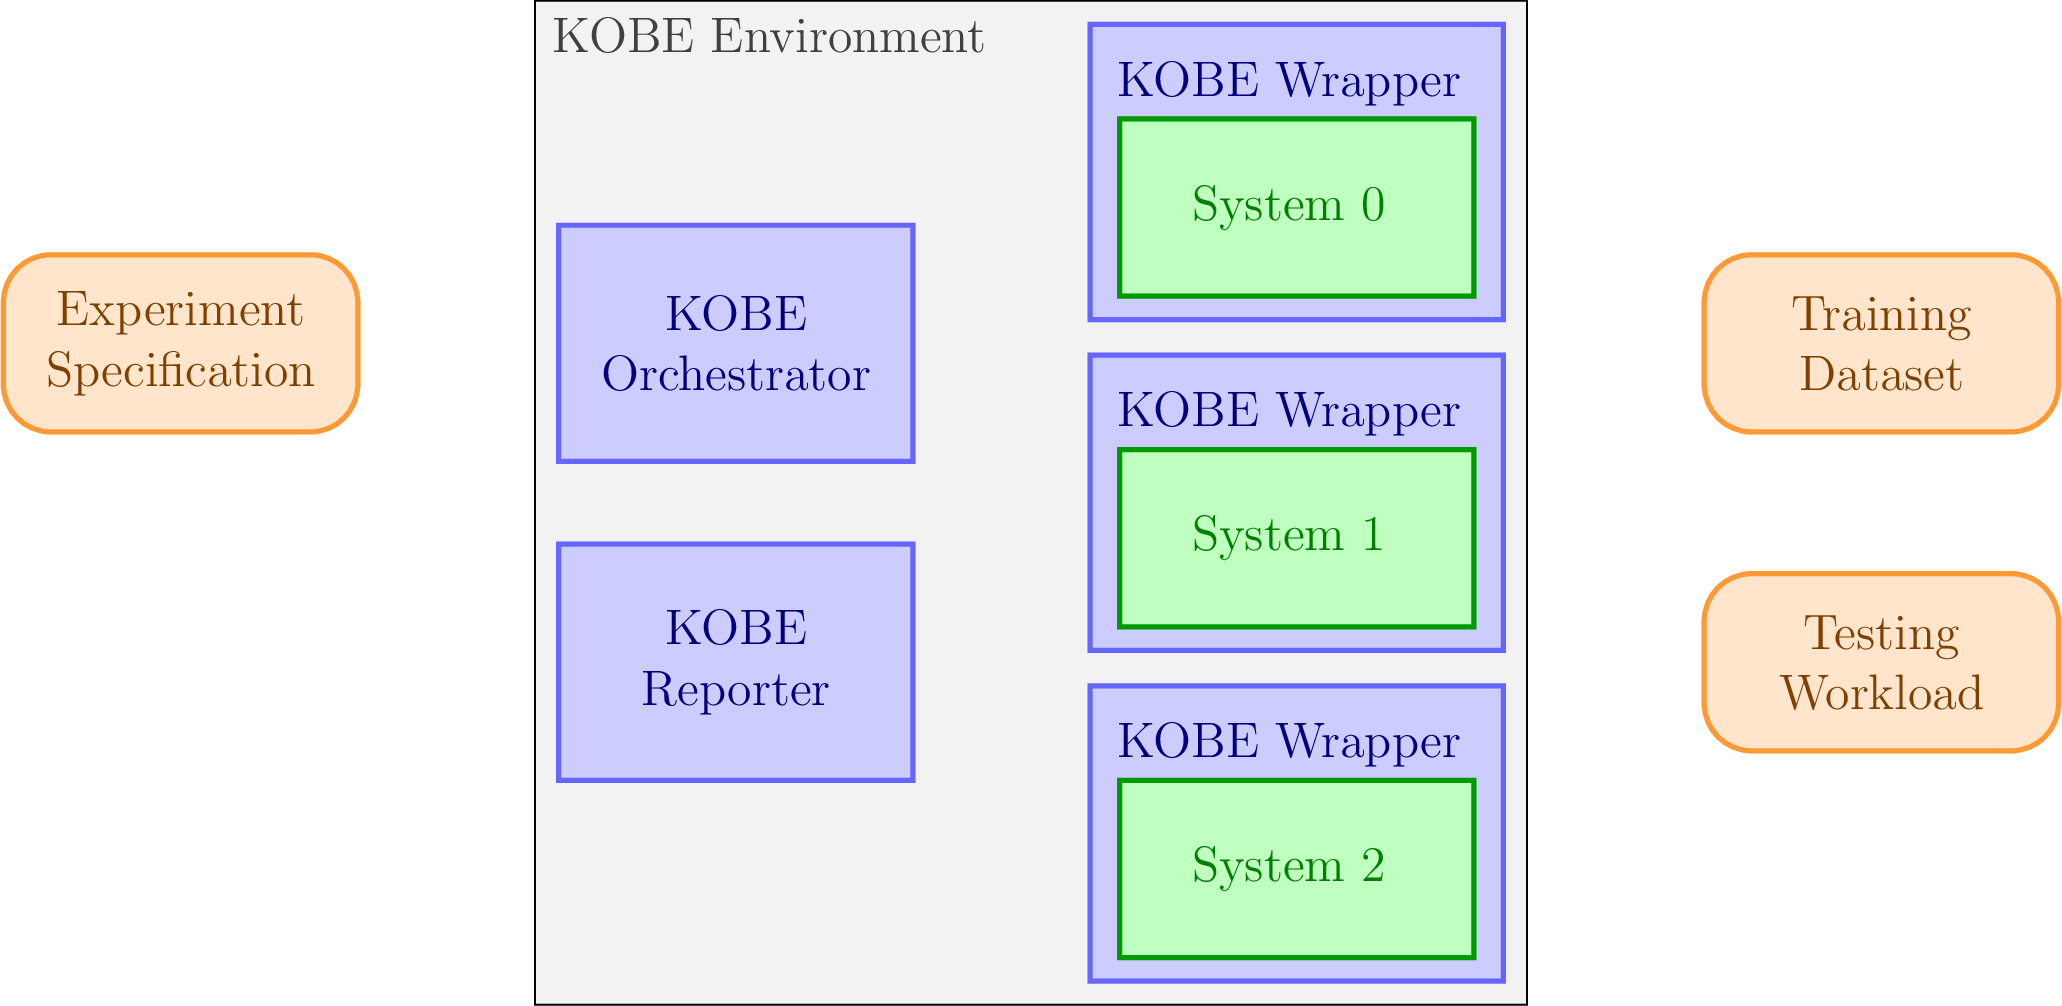
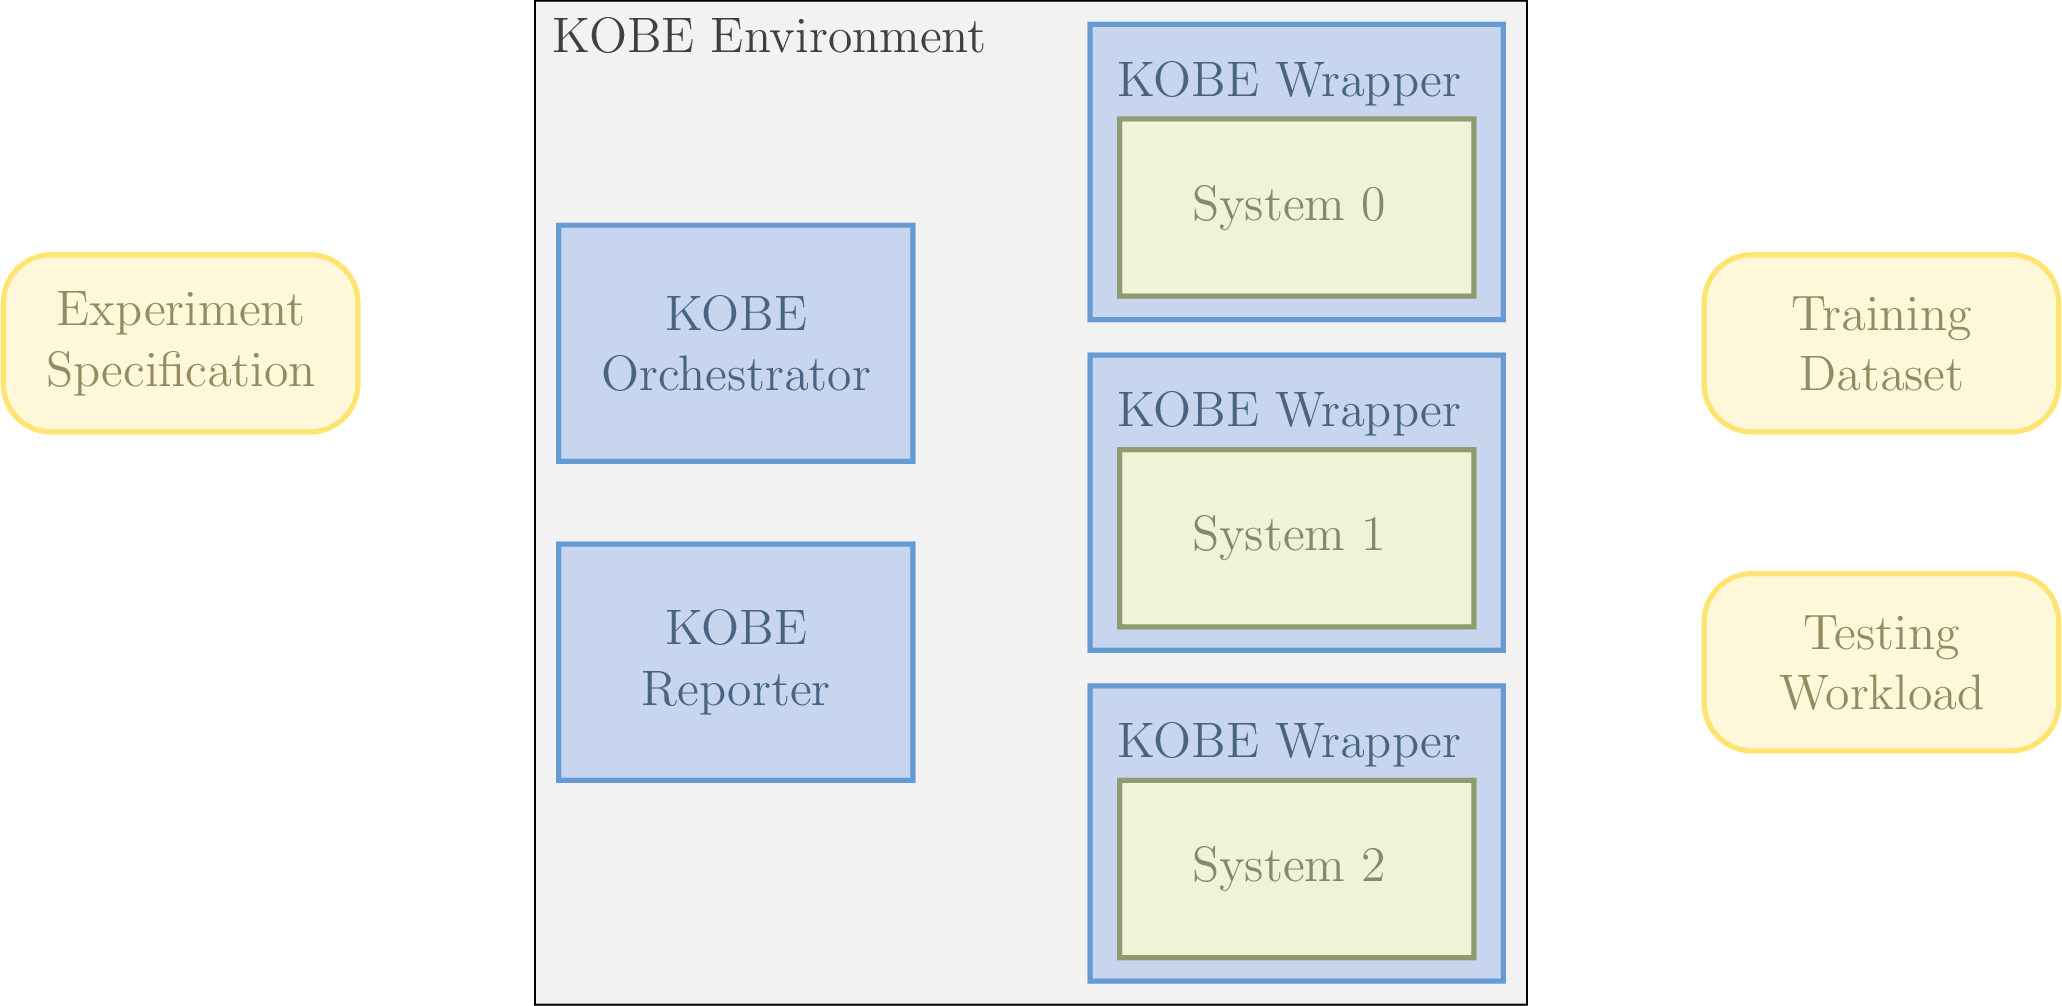
Change the color palette

diff --git a/doc/figures/diagrams.py b/doc/figures/diagrams.py
@@ -23,7 +23,7 @@ def make_diagram():
 
 def make_system_block( dia, shape, position, width=None, height=None, label=None ):
     constr = dia[shape]
-    options = dia["style"] + ",fill=green!25,draw=green!60!black"
+    options = dia["style"] + ",fill=SpringGreen!25,draw=SpringGreen!60!black"
     if (width is not None) and (height is not None):
         my_width = width
         my_height = height
@@ -32,7 +32,7 @@ def make_system_block( dia, shape, position, width=None, height=None, label=None
         my_height = 1.5
     retv = constr( position, width=my_width, height=my_height, options=options )
     if label is not None:
-        dia["diagram"].node( retv.center, options="align=center,text=black!50!green", text=label )
+        dia["diagram"].node( retv.center, options="align=center,text=black!50!SpringGreen", text=label )
     return retv
 
 
@@ -53,7 +53,7 @@ def make_web_block( dia, shape, position, width=None, height=None, label=None ):
 
 def make_data_block( dia, shape, position, width=None, height=None, label=None ):
     constr = dia[shape]
-    options = dia["style"] + ",fill=orange!20,draw=orange!80,rounded corners=0.4cm"
+    options = dia["style"] + ",fill=Goldenrod!20,draw=Goldenrod!80,rounded corners=0.4cm"
     if (width is not None) and (height is not None):
         my_width = width
         my_height = height
@@ -62,7 +62,7 @@ def make_data_block( dia, shape, position, width=None, height=None, label=None )
         my_height = 1.5
     retv = constr( position, width=my_width, height=my_height, options=options )
     if label is not None:
-        dia["diagram"].node( retv.center, options="align=center,text=black!50!orange", text=label )
+        dia["diagram"].node( retv.center, options="align=center,text=black!50!Goldenrod", text=label )
     return retv
 
 
@@ -74,17 +74,17 @@ def make_kobe_block( dia, shape, position, width=None, height=None, label=None )
         my_width = 3
         my_height = 2
     constr = dia[shape]
-    options = dia["style"] + ",fill=blue!20,draw=blue!60"
+    options = dia["style"] + ",fill=RoyalBlue!20,draw=RoyalBlue!60"
     retv = constr( position, width=my_width, height=my_height, options=options )
     if label is not None:
-        dia["diagram"].node( retv.center, options="align=center,text=black!50!blue", text=label )
+        dia["diagram"].node( retv.center, options="align=center,text=black!50!RoyalBlue", text=label )
     return retv
 
 
 def make_kobe_wrapper( dia, shape, position, width=3.5, height=2.5, label="" ):
 
     retv = make_kobe_block( dia, shape, position, width, height )
-    dia["diagram"].node( retv.north - (0,0.5), options="align=center,text=black!50!blue", text="KOBE Wrapper" )
+    dia["diagram"].node( retv.north - (0,0.5), options="align=center,text=black!50!RoyalBlue", text="KOBE Wrapper" )
     make_system_block( dia, "rect_s", retv.south + (0,0.2), label=label )
     return retv
 
@@ -156,8 +156,8 @@ def make_diagramsA():
     make_componentsA( dia )
     dia["diagram"].compile( "diagram_A1.pdf" )
 
-    arrow_kobe = "blue!80!black, rounded corners=7pt, ultra thick, ->, >=stealth"
-    arrow_file = "orange!80!black, rounded corners=7pt, ultra thick, ->, >=stealth"
+    arrow_kobe = "RoyalBlue!80!black, rounded corners=7pt, ultra thick, ->, >=stealth"
+    arrow_file = "Goldenrod!80!black, rounded corners=7pt, ultra thick, ->, >=stealth"
 
     dia = make_diagram()
     make_componentsA( dia )
@@ -227,8 +227,8 @@ def make_diagramsB():
     dia = make_diagram()
     make_componentsB( dia )
 
-    arrow_kobe = "blue!80!black, rounded corners=7pt, ultra thick, ->, >=stealth"
-    arrow_file = "orange!80!black, rounded corners=7pt, ultra thick, ->, >=stealth"
+    arrow_kobe = "RoyalBlue!80!black, rounded corners=7pt, ultra thick, ->, >=stealth"
+    arrow_file = "Goldenrod!80!black, rounded corners=7pt, ultra thick, ->, >=stealth"
 
     dia = make_diagram()
     make_componentsB( dia )
@@ -273,8 +273,8 @@ def make_componentsC( dia ):
 
 def make_diagramsC():
 
-    arrow_kobe = "blue!80!black, rounded corners=7pt, ultra thick, ->, >=stealth"
-    arrow_file = "orange!80!black, rounded corners=7pt, ultra thick, ->, >=stealth"
+    arrow_kobe = "RoyalBlue!80!black, rounded corners=7pt, ultra thick, ->, >=stealth"
+    arrow_file = "Goldenrod!80!black, rounded corners=7pt, ultra thick, ->, >=stealth"
     arrow_webapi = "black!60!gray, rounded corners=7pt, ultra thick, ->, >=stealth"
 
     dia = make_diagram()
@@ -319,8 +319,8 @@ def make_componentsD( dia ):
 
 def make_diagramsD():
 
-    arrow_kobe = "blue!80!black, rounded corners=7pt, ultra thick, ->, >=stealth"
-    arrow_file = "orange!80!black, rounded corners=7pt, ultra thick, ->, >=stealth"
+    arrow_kobe = "RoyalBlue!80!black, rounded corners=7pt, ultra thick, ->, >=stealth"
+    arrow_file = "Goldenrod!80!black, rounded corners=7pt, ultra thick, ->, >=stealth"
     arrow_webapi = "black!60!gray, rounded corners=7pt, ultra thick, ->, >=stealth"
 
     dia = make_diagram()
